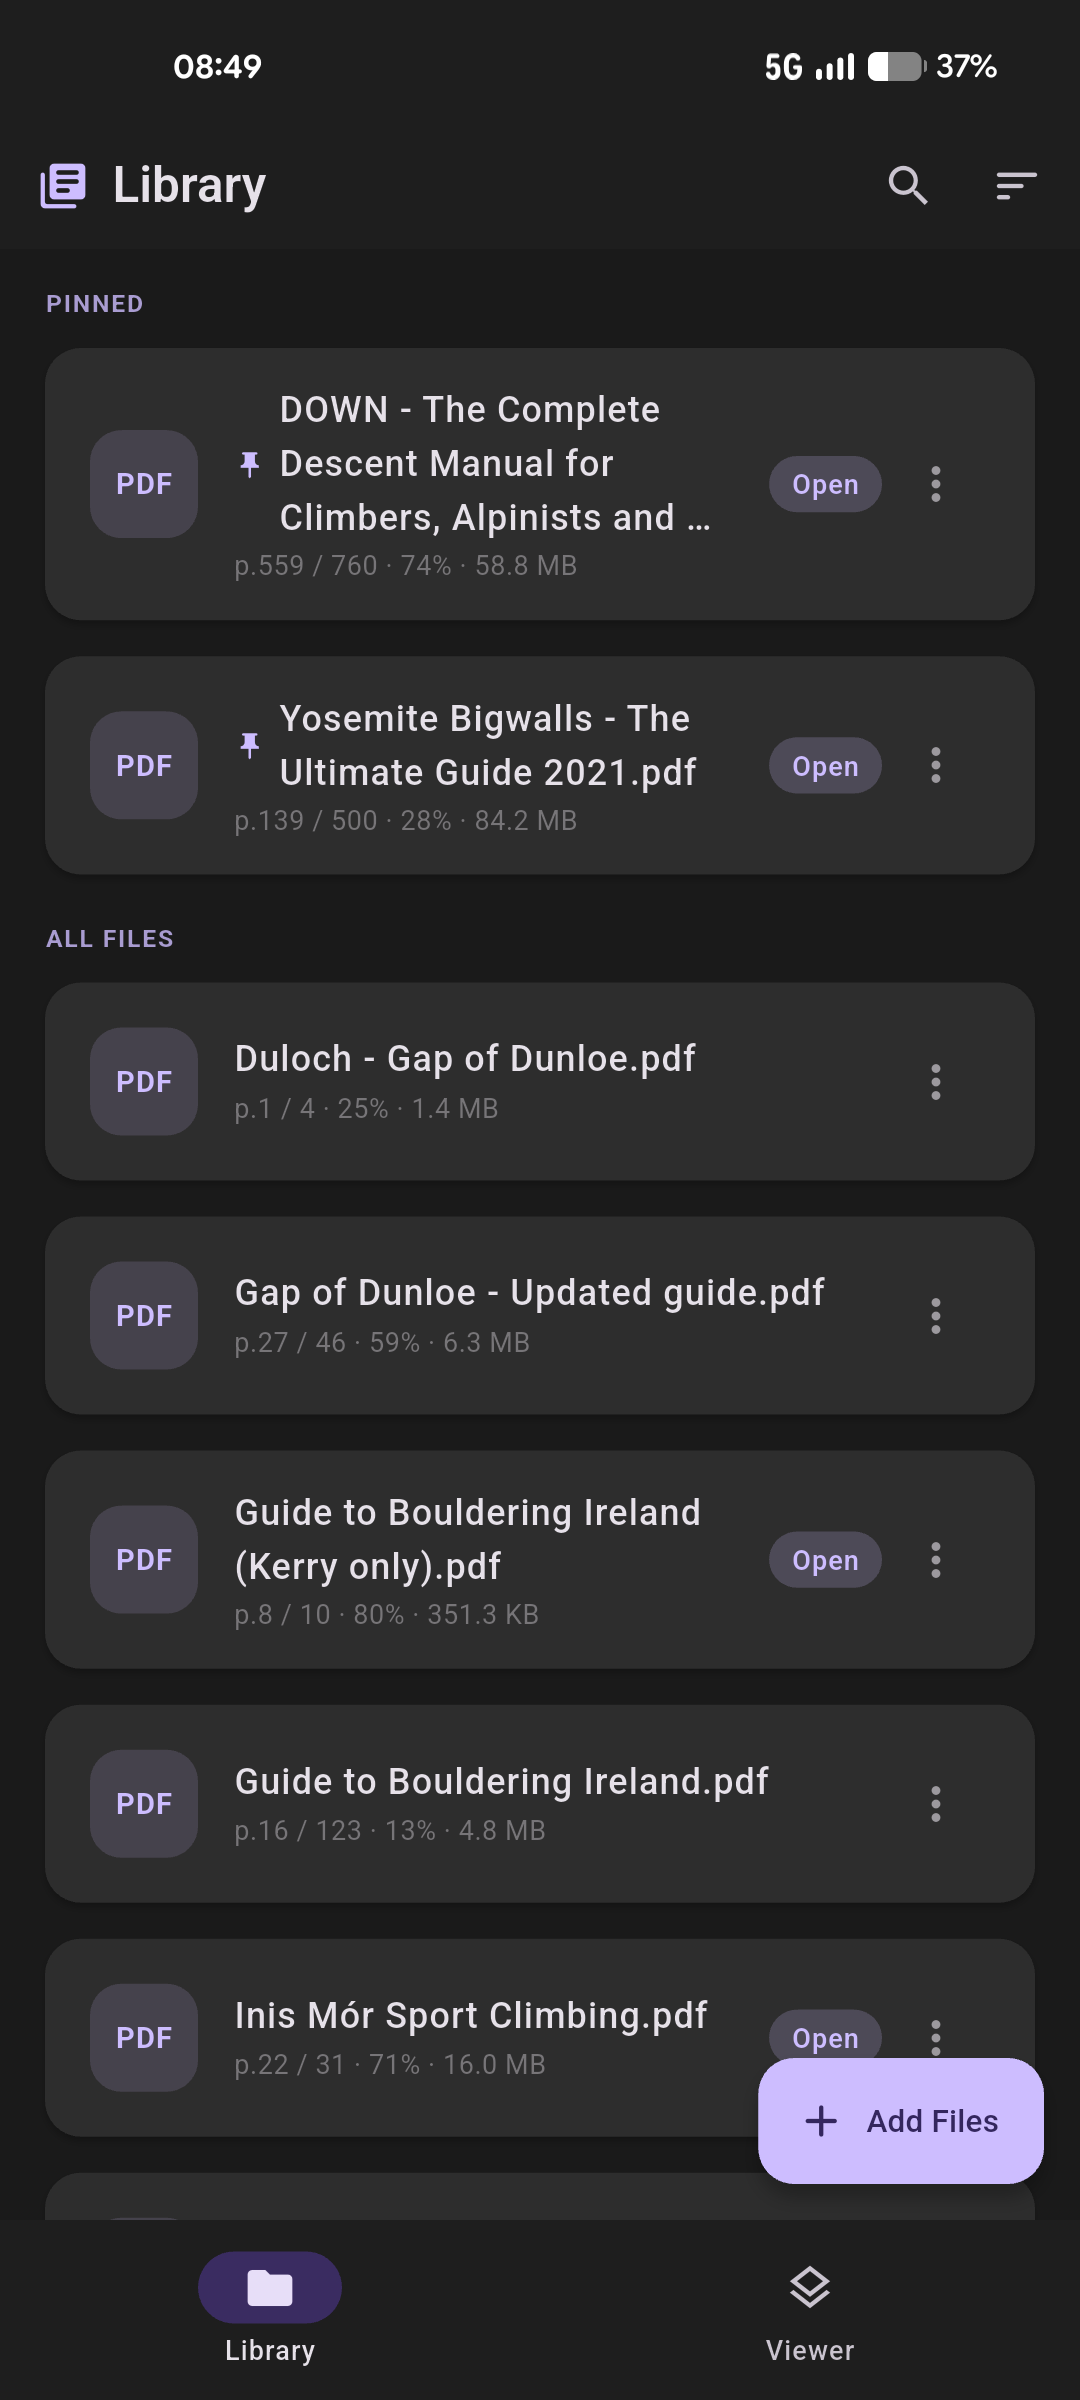
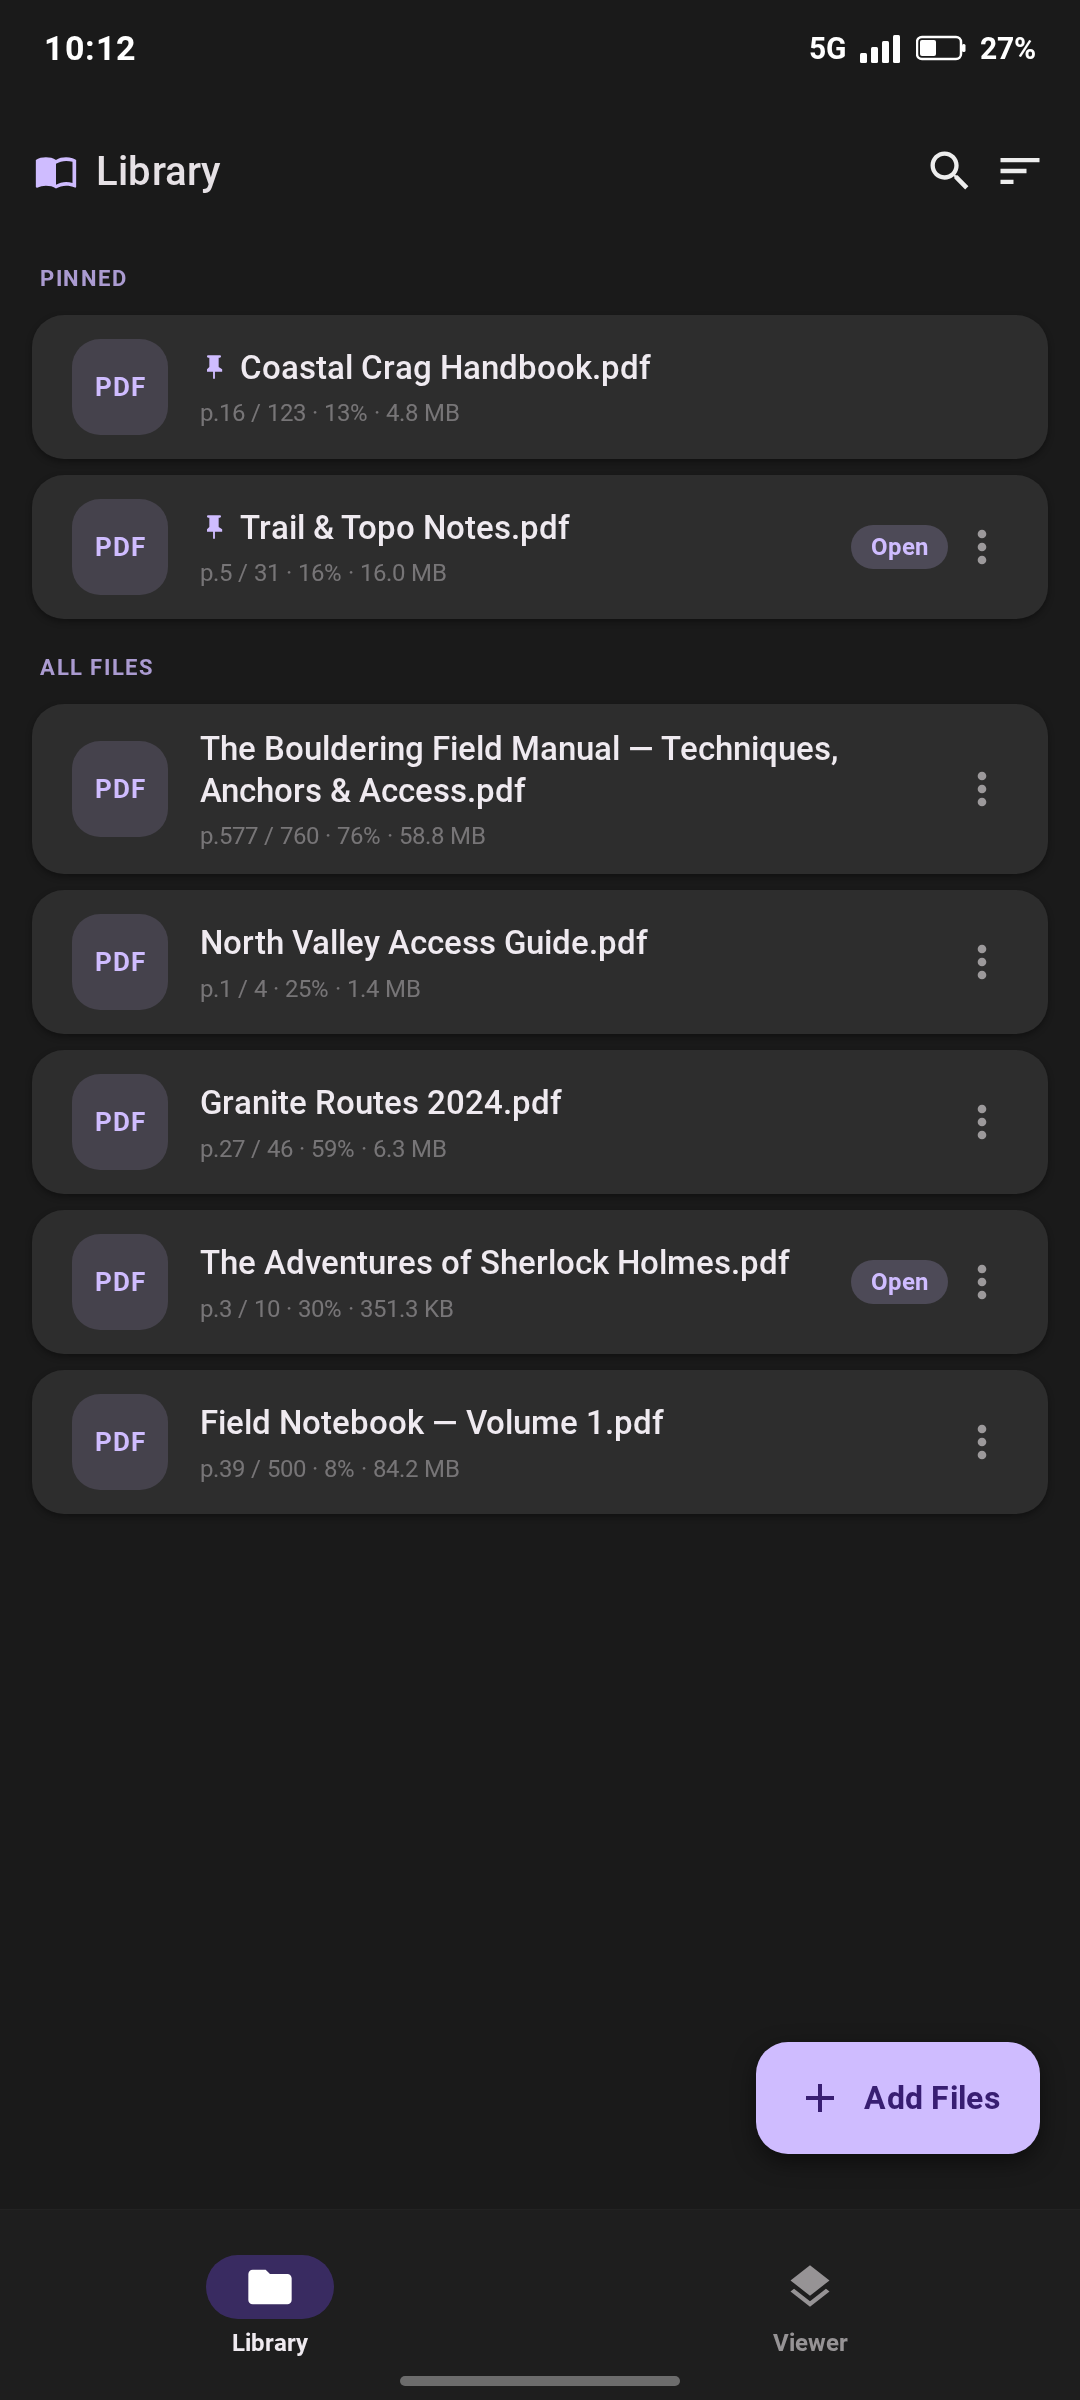
Replace hero with an accurate, copyright-free app recreation
library.png is now a pixel-faithful recreation of the real Library
screen — rebuilt from lib/main.dart (M3 seed #7C4DFF, Roboto, exact
components) via headless chromium — with non-copyrighted document
names. Removes the third-party guidebook titles from the hero.

diff --git a/index.html b/index.html
@@ -10,7 +10,7 @@
 <meta property="og:title" content="Glide — The Modern PDF Viewer" />
 <meta property="og:description" content="Read more. Fumble less. A fast, focused reader for PDFs and text files." />
 <meta property="og:type" content="website" />
-<meta property="og:image" content="assets/screenshots/library.png?v=2" />
+<meta property="og:image" content="assets/screenshots/library.png?v=3" />
 <link rel="icon" type="image/jpeg" href="assets/icons/app_icon_2_dark_color.jpg" />
 <style>
   :root{
@@ -280,7 +280,7 @@
     </div>
     <div class="hero-phone">
       <div class="glow"></div>
-      <div class="phone"><img src="assets/screenshots/library.png?v=2" alt="Glide library screen showing pinned documents and reading progress" width="1080" height="2400" /></div>
+      <div class="phone"><img src="assets/screenshots/library.png?v=3" alt="Glide library screen showing pinned documents and reading progress" width="1080" height="2400" /></div>
     </div>
   </div>
 </section>
